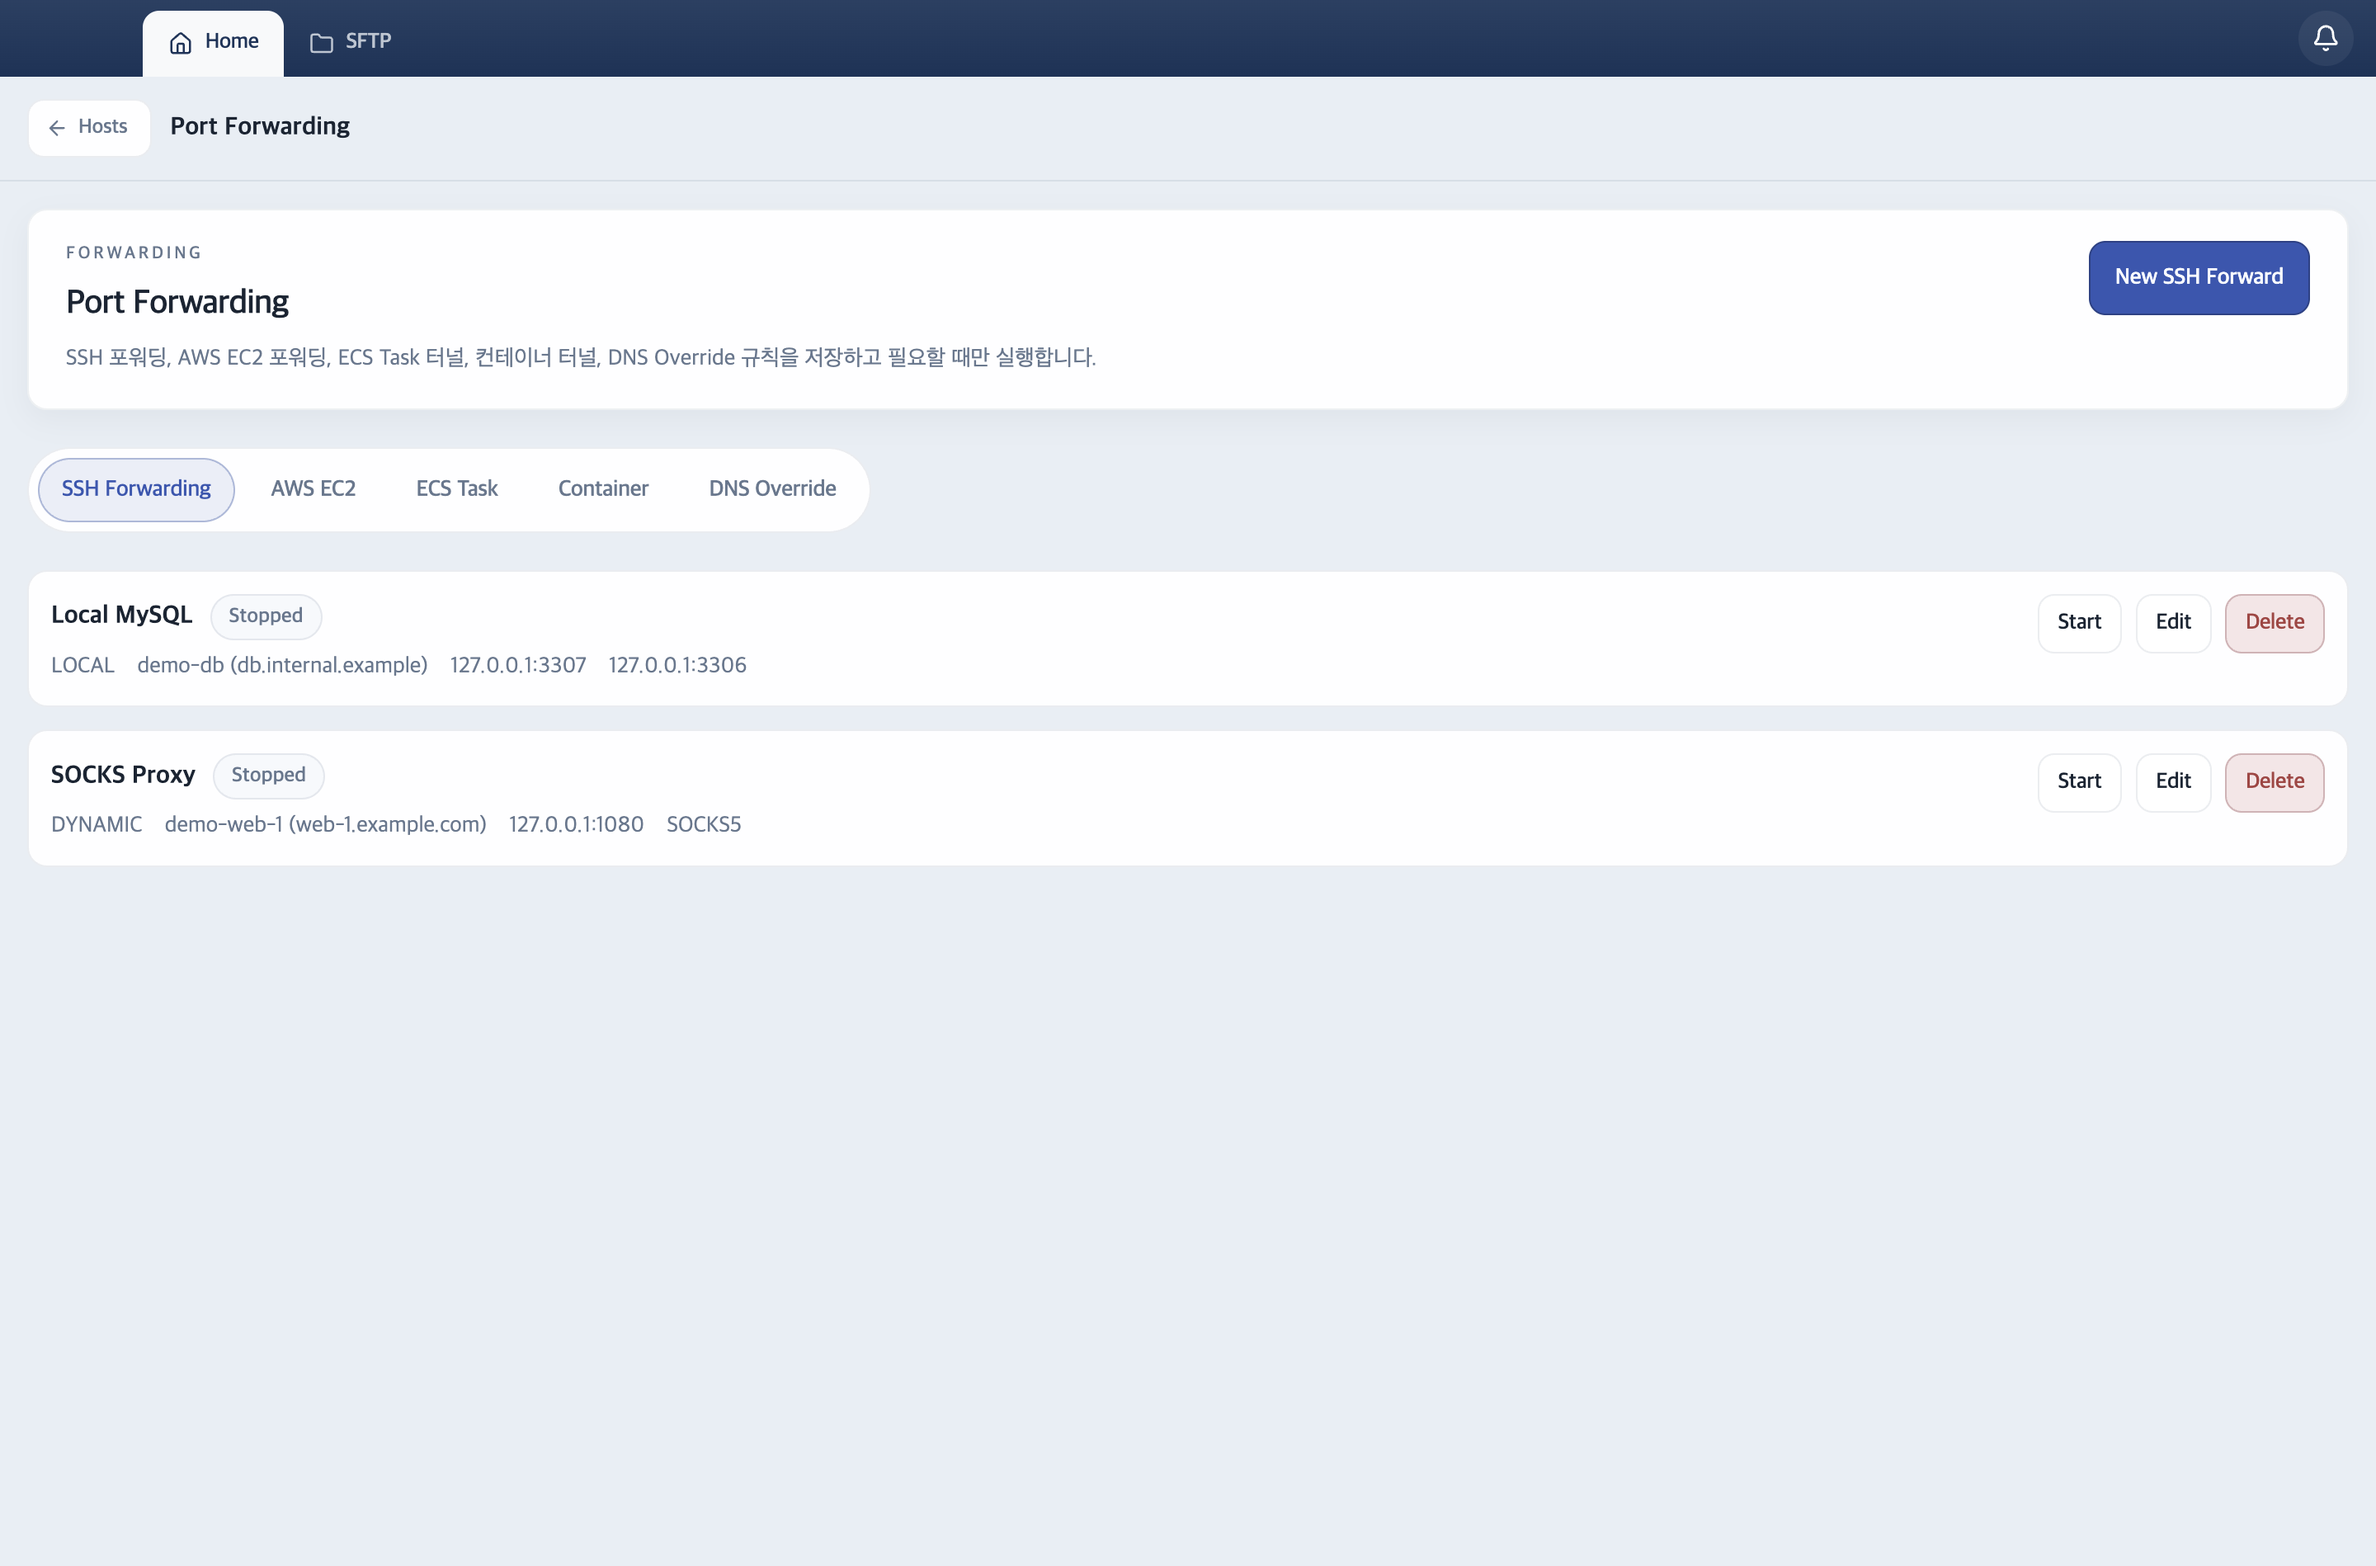
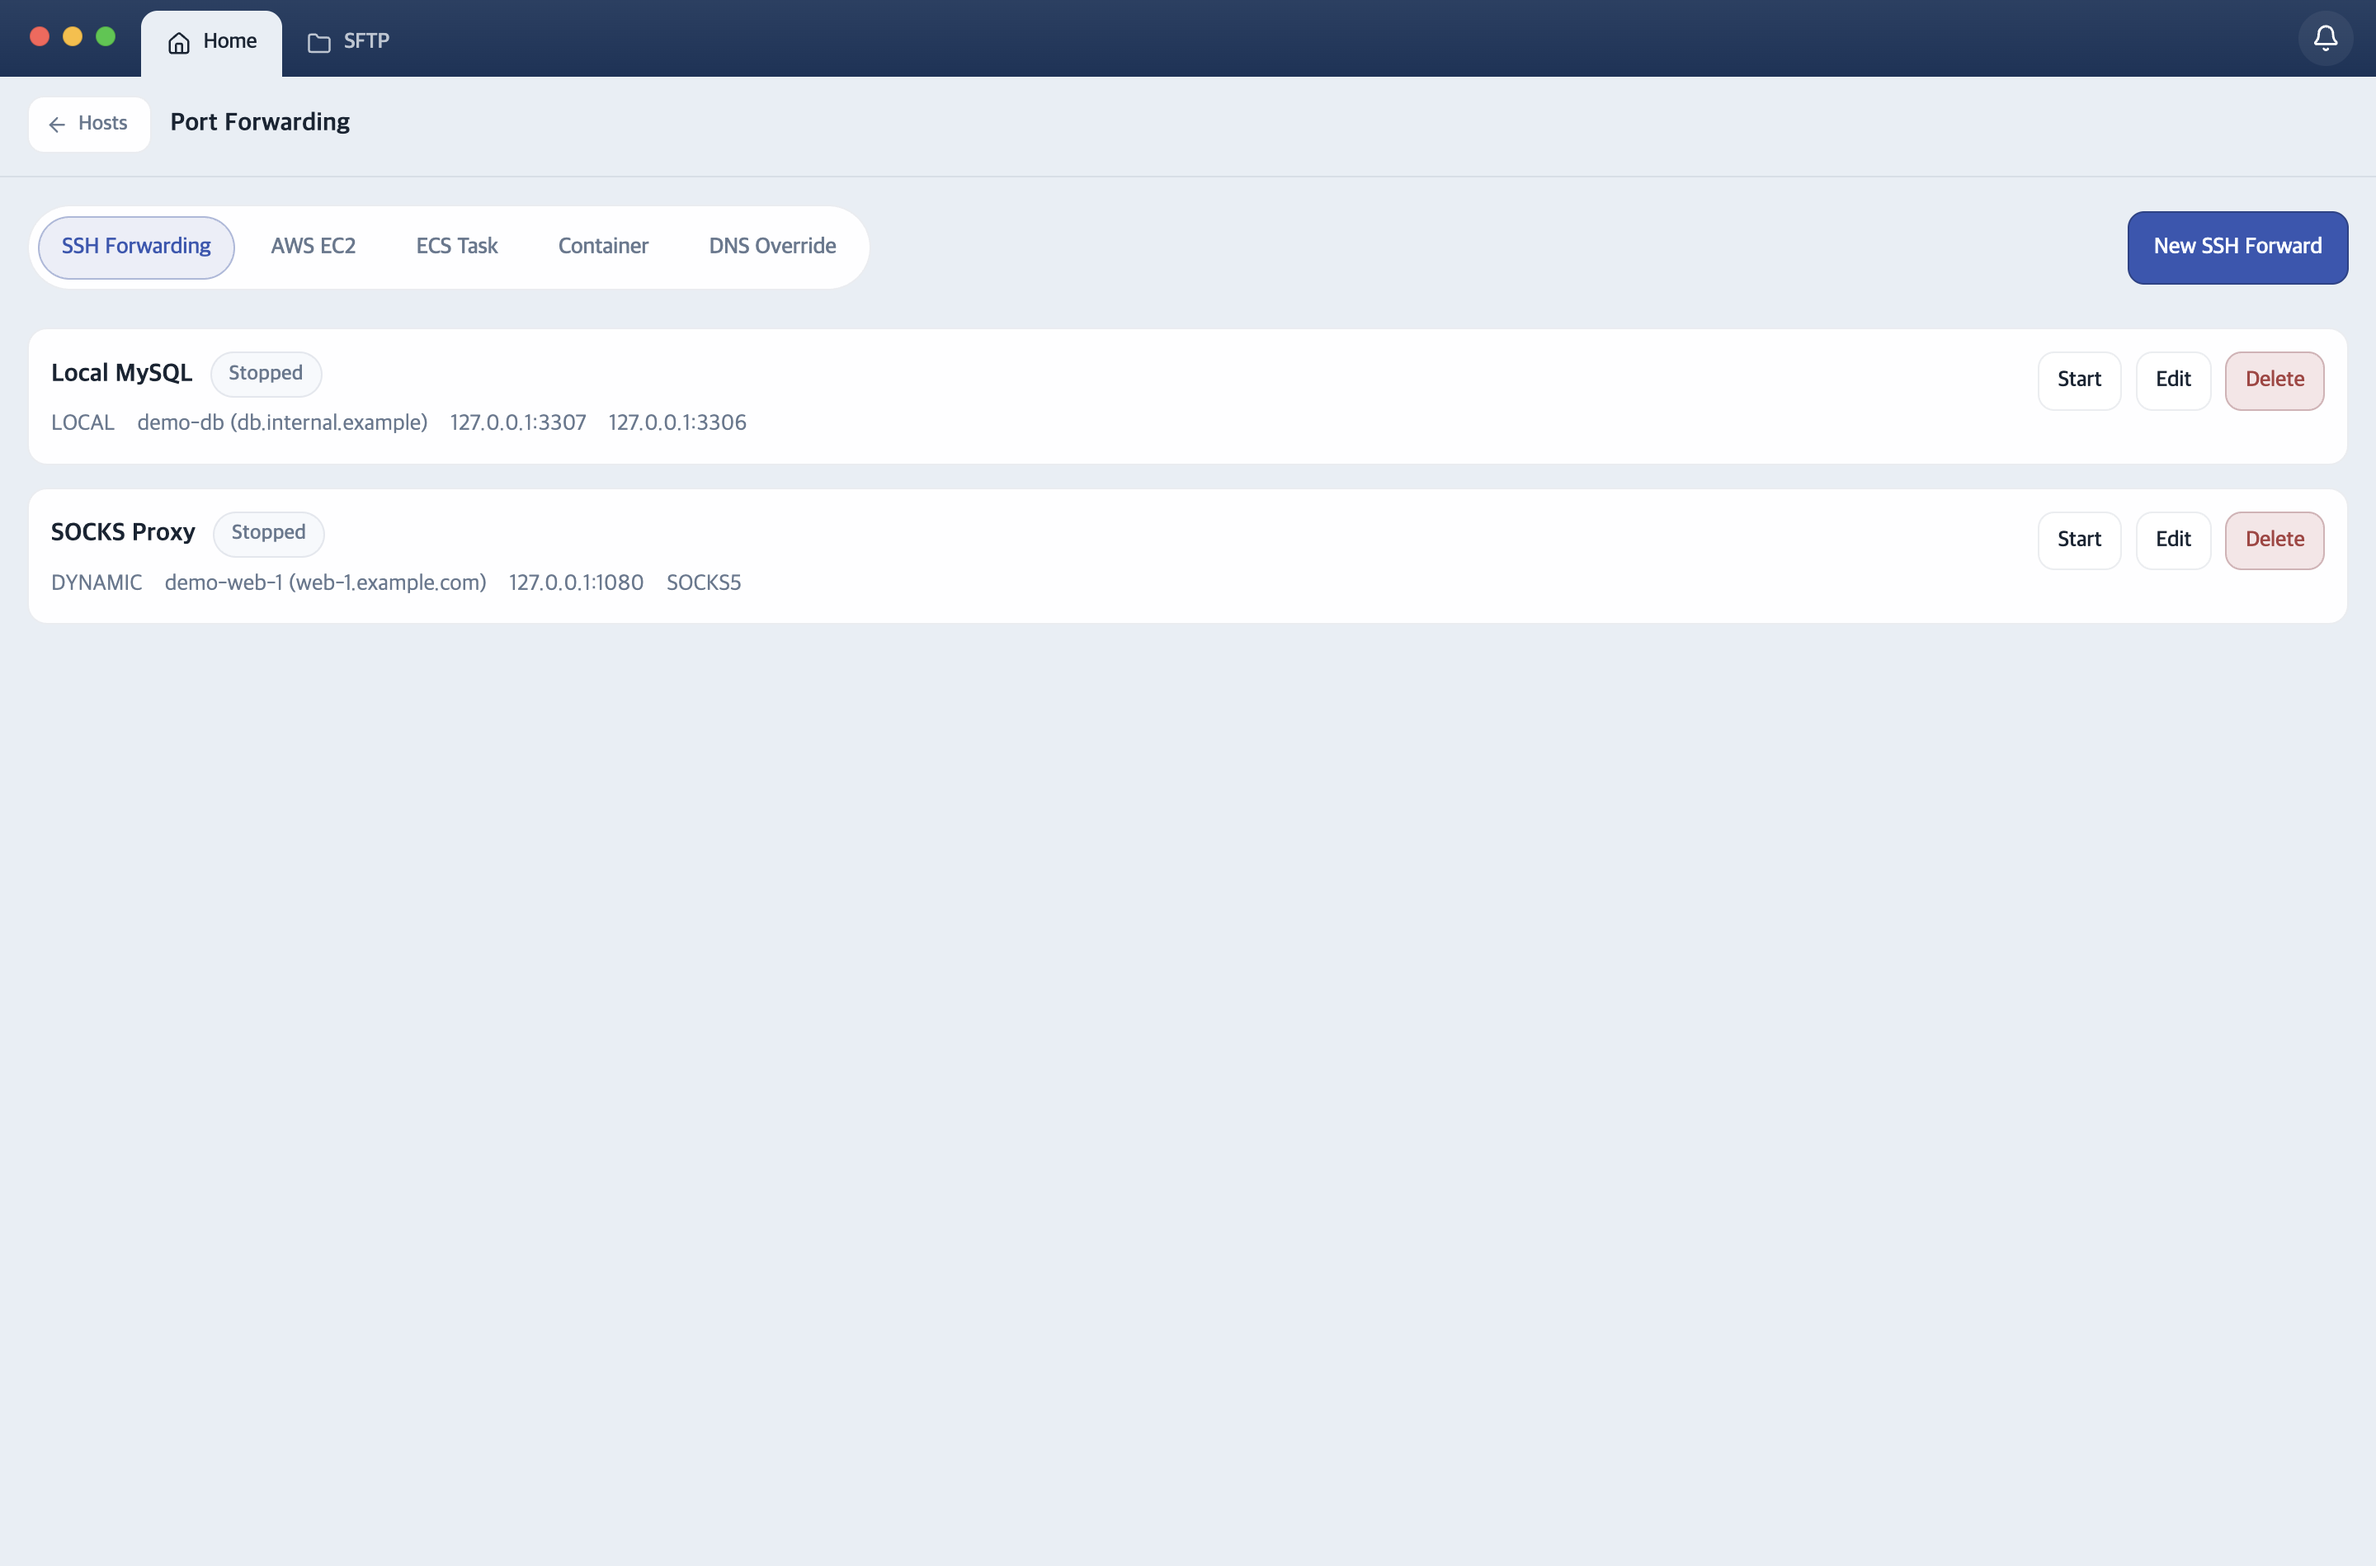
feat(web): 테마별 앱 스크린샷 적용

diff --git a/web/index.html b/web/index.html
@@ -138,13 +138,7 @@
       background: var(--panel);
       box-shadow: var(--shadow);
     }
-    .shot-bar {
-      display: flex; align-items: center; gap: 6px; padding: 10px 14px;
-      border-bottom: 1px solid var(--line); background: var(--panel-2);
-    }
-    .shot-bar i { width: 11px; height: 11px; border-radius: 50%; background: #3a4160; }
-    .shot-bar i:nth-child(1) { background: #ff5f57; } .shot-bar i:nth-child(2) { background: #febc2e; } .shot-bar i:nth-child(3) { background: #28c840; }
-    .shot-bar em { margin-left: 10px; font-style: normal; font-family: var(--mono); font-size: .78rem; color: var(--text-soft); }
+    .theme-shot { display: block; }
 
     /* ── sections ── */
     section { padding: 84px 0; }
@@ -273,8 +267,10 @@
     </div>
 
     <figure class="shot-frame">
-      <div class="shot-bar"><i></i><i></i><i></i><em>dolgate — hosts &amp; workspace</em></div>
-      <img src="./assets/hosts-workspace.png" alt="Dolgate 호스트/워크스페이스 화면" loading="eager" />
+      <picture class="theme-shot">
+        <source data-theme-image="dark" srcset="./assets/hosts-workspace-dark.png" media="(prefers-color-scheme: dark)" />
+        <img src="./assets/hosts-workspace.png" alt="Dolgate 호스트/워크스페이스 화면" loading="eager" />
+      </picture>
     </figure>
   </div>
 </header>
@@ -327,8 +323,10 @@
       </p>
     </div>
     <figure class="shot-frame">
-      <div class="shot-bar"><i></i><i></i><i></i><em>dolgate — port forwarding</em></div>
-      <img src="./assets/port-forwarding.png" alt="Dolgate 포트 포워딩 화면" loading="lazy" />
+      <picture class="theme-shot">
+        <source data-theme-image="dark" srcset="./assets/port-forwarding-dark.png" media="(prefers-color-scheme: dark)" />
+        <img src="./assets/port-forwarding.png" alt="Dolgate 포트 포워딩 화면" loading="lazy" />
+      </picture>
     </figure>
   </div>
 </section>
@@ -423,6 +421,7 @@
     const root = document.documentElement;
     const btn = document.getElementById("theme-toggle");
     const metas = document.querySelectorAll('meta[name="theme-color"]');
+    const darkImages = document.querySelectorAll('source[data-theme-image="dark"]');
     const COLORS = { dark: "#0b0e18", light: "#f6f7fb" };
     const ICONS = { auto: "◐", light: "☀", dark: "☾" };
     const LABELS = { auto: "시스템 설정 따름", light: "라이트", dark: "다크" };
@@ -437,6 +436,11 @@
       metas.forEach((m) => {
         const scheme = (m.media || "").includes("dark") ? "dark" : "light";
         m.content = mode === "auto" ? COLORS[scheme] : COLORS[mode];
+      });
+      darkImages.forEach((source) => {
+        source.media = mode === "auto"
+          ? "(prefers-color-scheme: dark)"
+          : mode === "dark" ? "all" : "not all";
       });
       btn.textContent = ICONS[mode];
       btn.title = `테마: ${LABELS[mode]} (클릭해서 전환)`;

diff --git a/README.md b/README.md
@@ -3,7 +3,10 @@
 Dolgate는 Windows, macOS, Linux, iOS, Android에서 같은 서버 작업 환경을 이어 쓰는 SSH 워크스페이스입니다.
 호스트·세션·스니펫을 동기화하되, sync-api를 직접 호스팅해 접속 정보와 작업 데이터를 스스로 통제할 수 있습니다.
 
-![Dolgate 홈 화면](./docs/hosts-workspace.png)
+<picture>
+  <source media="(prefers-color-scheme: dark)" srcset="./docs/hosts-workspace-dark.png">
+  <img alt="Dolgate 홈 화면" src="./docs/hosts-workspace.png">
+</picture>
 
 ### 대표 기능
 
@@ -76,7 +79,10 @@ Dolgate는 Windows, macOS, Linux, iOS, Android에서 같은 서버 작업 환경
 
 - 자동 업데이트 · 셀프호스팅 sync-api
 
-![Dolgate 포트 포워딩 화면](./docs/port-forwarding.png)
+<picture>
+  <source media="(prefers-color-scheme: dark)" srcset="./docs/port-forwarding-dark.png">
+  <img alt="Dolgate 포트 포워딩 화면" src="./docs/port-forwarding.png">
+</picture>
 
 ## 빠른 시작
 
@@ -109,7 +115,11 @@ curl http://127.0.0.1:8080/healthz
 [sync-api 자체 호스팅 가이드](./docs/sync-api-self-hosting.md)를 참고해 주세요.
 
 데스크톱 앱에서는 로그인 화면의 톱니바퀴를 눌러 `Login Server`를 self-host 주소로 바꾸면 됩니다.
-![Login Server 설정 화면](docs/login.png)
+
+<picture>
+  <source media="(prefers-color-scheme: dark)" srcset="./docs/login-dark.png">
+  <img alt="Login Server 설정 화면" src="./docs/login.png">
+</picture>
 
 ## 중요한 사항
 

diff --git a/docs/sync-api-self-hosting.md b/docs/sync-api-self-hosting.md
@@ -75,7 +75,10 @@ volumes:
 - 로컬 테스트: `http://127.0.0.1:8080`
 - reverse proxy 뒤 운영: `https://ssh.example.com`
 
-![Login Server 설정 화면](./login.png)
+<picture>
+  <source media="(prefers-color-scheme: dark)" srcset="./login-dark.png">
+  <img alt="Login Server 설정 화면" src="./login.png">
+</picture>
 
 ## 운영 기본값과 권장 설정
 
